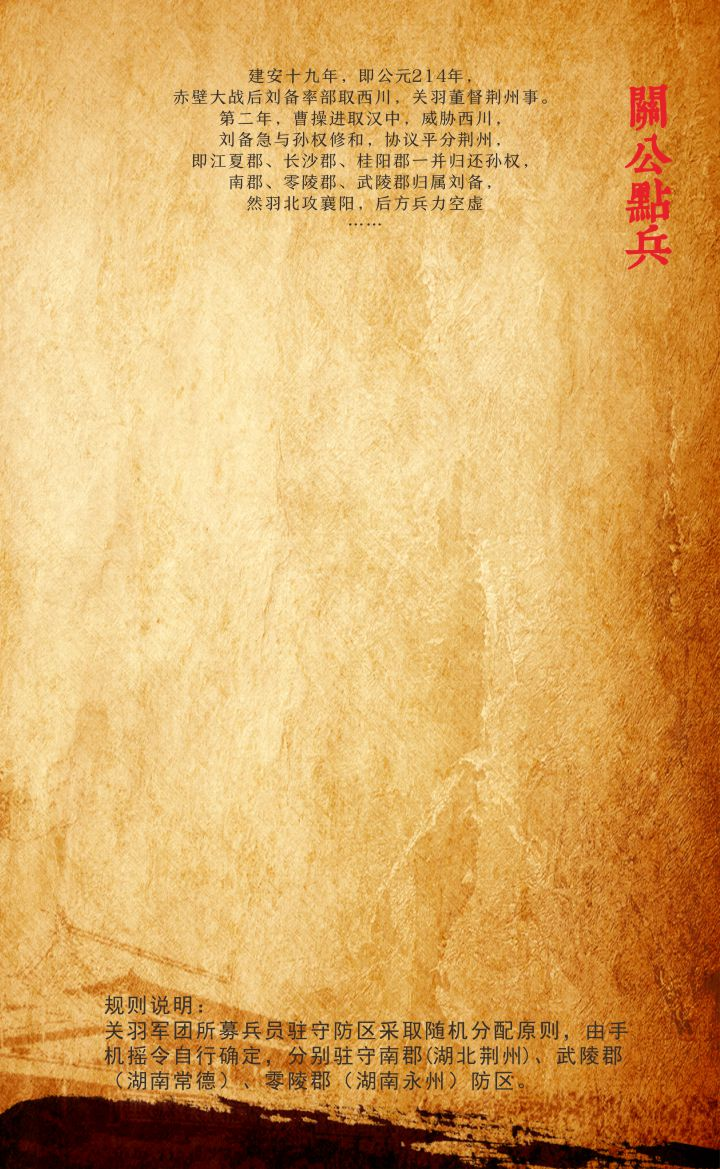
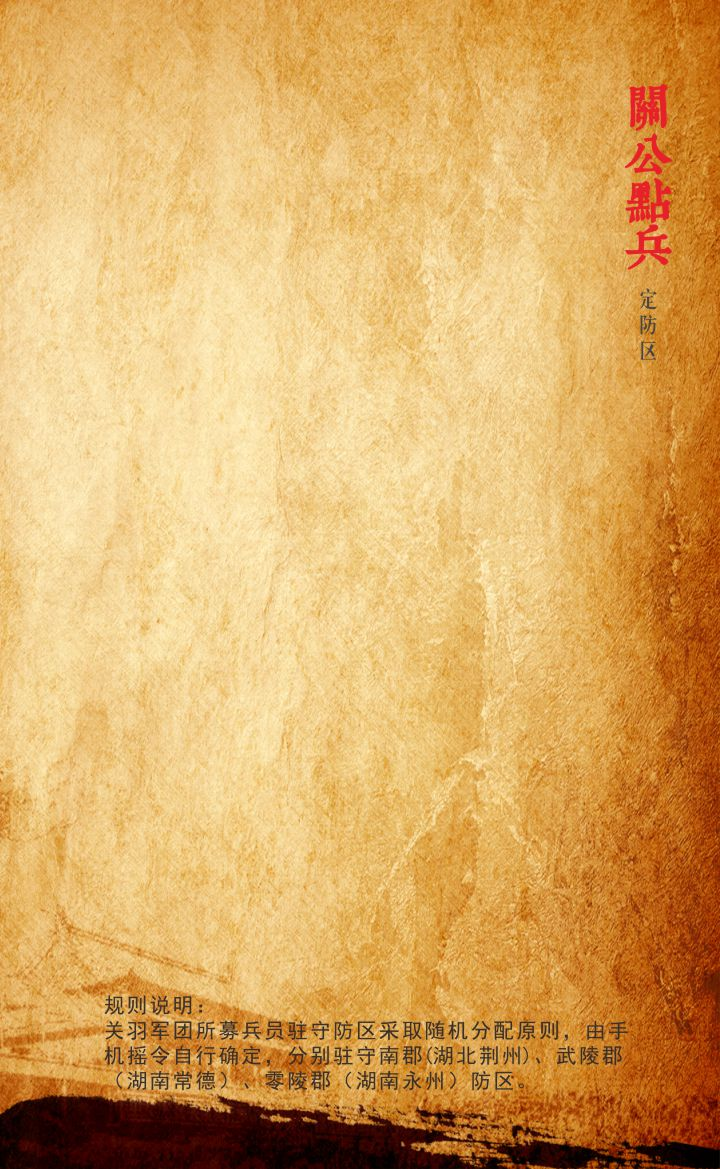
关公点兵

Changed region(s): [[0.2444, 0.0616, 0.7639, 0.1848], [0.8861, 0.2464, 0.9167, 0.308]]

diff --git a/public/apps/guangong/css/arm.css b/public/apps/guangong/css/arm.css
@@ -42,12 +42,15 @@
     #arm-2 .steps img{width:36px}
 }
 
+#arm-3.swiper-slide,#arm-5.swiper-slide,#arm-7.swiper-slide,#arm-9.swiper-slide,#arm-12.swiper-slide{background-image:url(../images/arm/bg-qinghuai.jpg)}
+
 #arm-4 .defence-text{width:214px;left:50%;top:10px;margin-left:-107px;}
 #arm-4 .map{width:256px;left:50%;top:90px;margin-left:-128px}
 #arm-4 .shake{width:80px;left:50%;bottom:105px;margin-left:-40px;}
 #arm-4 .next-link{bottom:130px;left:50%;margin-left:-57px}
-#arm-4 .go-to-sign{width:80px;left:50%;bottom:120px;margin-left:-40px}
+#arm-4 .go-to-sign{width:80px;left:50%;bottom:70px;margin-left:-40px}
 #arm-4 .go-to-sign a{color:#E5302D}
+#arm-4.swiper-slide{background-image:url(../images/arm/bg-guizeshuoming-fangqu.jpg)}
 #go-to-sign-dialog{background:url(../images/arm/caozhi-bg.png) no-repeat center center transparent;background-size:100% 100%;width:260px;height:200px;font-size:22px;text-align:center;line-height:1.6;padding-top:56px}
 #go-to-sign-dialog .fancybox-close-small{top:17px;right:17px}
 @media screen and (max-width:350px){
@@ -68,6 +71,7 @@
 #arm-6 .qibing-text{top:165px;left:50%;margin-left:22%}
 #arm-6 .next-link{bottom:120px;left:50%;margin-left:-57px}
 #arm-6 .langan{width:80%;top:50%;left:50%;margin-left:-40%;margin-top:-10px}
+#arm-6.swiper-slide{background-image:url(../images/arm/bg-bingzhong.jpg)}
 #arm-dialog .dialog-content{background:url(../images/arm/caozhi-bg.png) no-repeat center center transparent;background-size:100% 100%}
 #arm-dialog h1{font-size:16px;margin-bottom:26px;text-align:center}
 #arm-dialog .arm-description img{width:100%}
@@ -79,6 +83,7 @@
 #arm-8 .result{width:72px;height:400px;top:50%;left:50%;margin-left:-36px;margin-top:-250px;box-sizing:content-box;background-image:url(../images/arm/paizi.png);color:#000;background-size:100%;background-repeat:no-repeat}
 #arm-8 .result .hour{display:inline-block;width:18px;line-height:1.5;top:120px;left:27px;position:absolute}
 #arm-8 .next-link{bottom:100px;left:50%;margin-left:-57px}
+#arm-8.swiper-slide{background-image:url(../images/arm/bg-guizeshuoming-qinwu.jpg)}
 #hour-dialog .dialog-content{background:url(../images/arm/caozhi-bg.png) no-repeat center center transparent;background-size:100% 100%}
 #hour-dialog .bottom-description{margin-top:30px;text-align:center}
 @media screen and (max-width:350px){
@@ -102,6 +107,7 @@
 #arm-10 .juanzhou-kai #info-avatar{text-align:center;margin-bottom:20px}
 #arm-10 .juanzhou-kai #info-avatar img{width:70px;height:70px}
 #arm-10 .juanzhou-kai a.all-rank-link{color:blue}
+#arm-10.swiper-slide{background-image:url(../images/arm/bg-guizeshuoming-junji.jpg)}
 
 #arm-11 .desc{left:50%;margin-left:-121px;font-size:12px;bottom:54px}
 
@@ -112,6 +118,7 @@
 #arm-13 .description{width:90%;margin-left:-45%}
 #arm-13 .description p{text-indent:2em;color:#3E3938;font-size:12px}
 #arm-13 .description p a{color:#E50012}
+#arm-13.swiper-slide{background-image:url(../images/arm/bg-lvjunzhi.jpg)}
 @media screen and (max-width:350px){
     #arm-13 .job-title{top:26px;width:212px;margin-left:-131px}
     #arm-13 .jobs{top:84px}

diff --git a/public/apps/guangong/js/common.js b/public/apps/guangong/js/common.js
@@ -164,19 +164,11 @@ var common = {
         
         //一些结果页
         if($swiper.find('.result').length){
-            $swiper.find('.result').show().addClass('flip animated');
+            $swiper.find('.result').show().addClass('fadeInRight animated');
         }else{
-            $('.result').hide().removeClass('flip animated');
+            $('.result').hide().removeClass('fadeInRight animated');
         }
         
-        //底部描述
-        if($swiper.find('.description,.explain').length){
-            $swiper.find('.description,.explain').removeClass('lightSpeedIn animated');
-            setTimeout(function(){
-                $swiper.find('.description,.explain').addClass('lightSpeedIn animated');
-            }, 10);
-        }
-
         //右上角小标题
         if($swiper.find('.brand').length){
             $swiper.find('.brand').removeClass('fadeInRight animated');

diff --git a/public/apps/guangong/js/arm.js b/public/apps/guangong/js/arm.js
@@ -22,13 +22,6 @@ var arm = {
             $('.job-title').hide().removeClass('rubberBand animated');
         }
 
-        //兵种说明顶部文字
-        if($swiper.find('.arm-text').length){
-            $swiper.find('.arm-text').show().addClass('fadeInDown animated');
-        }else{
-            $('.arm-text').hide().removeClass('fadeInDown animated');
-        }
-
         //防区说明顶部文字
         if($swiper.find('.defence-text').length){
             $swiper.find('.defence-text').show().addClass('fadeInDown animated');

diff --git a/apps/guangong/modules/frontend/views/arm/_defence_slides.php b/apps/guangong/modules/frontend/views/arm/_defence_slides.php
@@ -5,17 +5,10 @@
  */
 ?>
 <div class="swiper-slide" id="arm-3">
-    <div class="layer brand"><img src="<?php echo $this->appAssets('images/arm/brand.png')?>"></div>
     <div class="layer dadao"><img src="<?php echo $this->appAssets('images/arm/dadao.png')?>"></div>
     <div class="layer title"><img src="<?php echo $this->appAssets('images/arm/t1.png')?>"></div>
-    <div class="layer description">
-        <p class="center">有价值有深度的关公文化网络体验之旅</p>
-        <p class="center">为实战体验做战争准备</p>
-    </div>
 </div>
 <div class="swiper-slide <?php if(!$defence){echo 'set-defence-slide stop-to-next';}?>" id="arm-4">
-    <div class="layer brand"><img src="<?php echo $this->appAssets('images/arm/brand.png')?>"></div>
-    <div class="layer subtitle">定防区</div>
     <div class="layer defence-text"><img src="<?php echo $this->appAssets('images/arm/defence-text.png')?>"></div>
     <div class="layer map"><img src="<?php echo $this->appAssets('images/arm/map.png')?>"></div>
     <?php if($user_extra && $user_extra['military'] >= \cms\services\OptionService::get('guangong:junfei', 1100)){?>
@@ -25,8 +18,4 @@
     <?php }else{?>
         <div class="layer shake go-to-sign"><img src="<?php echo $this->appAssets('images/arm/shake.png')?>"></div>
     <?php }?>
-    <div class="layer description">
-        <p>体验说明：</p>
-        <p>关羽军团所募兵员驻守防区采取随机分配的原则，由手机摇一摇自行确定，分别驻守南郡（湖北荆州）、武陵郡（湖南常德）、零陵郡（湖南永州）防区</p>
-    </div>
 </div>

diff --git a/apps/guangong/modules/frontend/views/arm/_arm_slides.php b/apps/guangong/modules/frontend/views/arm/_arm_slides.php
@@ -4,18 +4,10 @@
  */
 ?>
 <div class="swiper-slide" id="arm-5">
-    <div class="layer brand"><img src="<?php echo $this->appAssets('images/arm/brand.png')?>"></div>
     <div class="layer dadao"><img src="<?php echo $this->appAssets('images/arm/dadao.png')?>"></div>
     <div class="layer title"><img src="<?php echo $this->appAssets('images/arm/t2.png')?>"></div>
-    <div class="layer description">
-        <p class="center">有价值有深度的关公文化网络体验之旅</p>
-        <p class="center">为实战体验做战争准备</p>
-    </div>
 </div>
 <div class="swiper-slide <?php if(!$arm){echo 'set-arm-slide stop-to-next';}?>" id="arm-6">
-    <div class="layer brand"><img src="<?php echo $this->appAssets('images/arm/brand.png')?>"></div>
-    <div class="layer subtitle">选兵种</div>
-    <div class="layer mountain"><img src="<?php echo $this->appAssets('images/arm/mountain.png')?>"></div>
     <?php if($arm){?>
         <a class="layer result fancybox-inline" href="#arm-dialog"><img src="<?php echo $arm['picture']['url']?>"></a>
     <?php }else{?>
@@ -31,8 +23,4 @@
         </div>
     <?php }?>
     <div class="layer arm-text"><img src="<?php echo $this->appAssets('images/arm/arm-text.png')?>"></div>
-    <div class="layer description">
-        <p>规则说明：</p>
-        <p>关羽军团所募兵员兵种分配采取随机分配原则，由手机摇一摇自行确定，一经确定不可更改，兵种分别为步兵、骑兵、水军、弩兵、车兵。</p>
-    </div>
 </div>

diff --git a/apps/guangong/modules/frontend/views/arm/_job_slides.php b/apps/guangong/modules/frontend/views/arm/_job_slides.php
@@ -1,16 +1,8 @@
 <div class="swiper-slide" id="arm-12">
-    <div class="layer brand"><img src="<?php echo $this->appAssets('images/arm/brand.png')?>"></div>
     <div class="layer dadao"><img src="<?php echo $this->appAssets('images/arm/dadao.png')?>"></div>
     <div class="layer title"><img src="<?php echo $this->appAssets('images/arm/t5.png')?>"></div>
-    <div class="layer description">
-        <p class="center">有价值有深度的关公文化网络体验之旅</p>
-        <p class="center">为实战体验做战争准备</p>
-    </div>
 </div>
 <div class="swiper-slide jobs-slide" id="arm-13">
-    <div class="layer brand"><img src="<?php echo $this->appAssets('images/arm/brand.png')?>"></div>
-    <div class="layer subtitle">履军职</div>
-    <div class="layer job-title"><img src="<?php echo $this->appAssets('images/arm/junzhi-title.png')?>"></div>
     <div class="layer jobs">
         <ul>
             <li class="job-1">
@@ -135,13 +127,6 @@ wx.ready(function(){
 });
 
 $('#post-dialog').css({'width': document.documentElement.clientWidth * 0.7});
-$('#yunchangjian-dialog').css({
-    'width': document.documentElement.clientWidth * 0.75,
-    'height': document.documentElement.clientHeight * 0.8
-});
-$('#jiangjunxian-dialog').css({
-    'width': document.documentElement.clientWidth * 0.75
-});
 
 $(function(){
     var audio = new Audio("<?php echo $this->appAssets('music/gusheng2.mp3')?>");

diff --git a/apps/guangong/modules/frontend/views/arm/_hour_slides.php b/apps/guangong/modules/frontend/views/arm/_hour_slides.php
@@ -4,24 +4,13 @@
  */
 ?>
 <div class="swiper-slide" id="arm-7">
-    <div class="layer brand"><img src="<?php echo $this->appAssets('images/arm/brand.png')?>"></div>
     <div class="layer dadao"><img src="<?php echo $this->appAssets('images/arm/dadao.png')?>"></div>
     <div class="layer title"><img src="<?php echo $this->appAssets('images/arm/t3.png')?>"></div>
-    <div class="layer description">
-        <p class="center">有价值有深度的关公文化网络体验之旅</p>
-        <p class="center">为实战体验做战争准备</p>
-    </div>
 </div>
 <div class="swiper-slide <?php if(!$hour){echo 'set-hour-slide stop-to-next';}?>" id="arm-8">
-    <div class="layer brand"><img src="<?php echo $this->appAssets('images/arm/brand.png')?>"></div>
-    <div class="layer subtitle">排勤务</div>
     <?php if($hour){?>
         <a class="layer result fancybox-inline" href="#hour-dialog"><span class="hour"><?php echo $hour['name']?></span></a>
     <?php }else{?>
         <div class="layer qiantong shake"><img src="<?php echo $this->appAssets('images/arm/qiantong.png')?>"></div>
     <?php }?>
-    <div class="layer description">
-        <p>规则说明：</p>
-        <p>根据古历每天分为十二个时辰，手机摇一摇自行确定时间。按规则每天报到，具体上岗时间可自行随时掌握，按规坚持方可有效晋升军职。</p>
-    </div>
 </div>

diff --git a/apps/guangong/modules/frontend/views/arm/_info_slides.php b/apps/guangong/modules/frontend/views/arm/_info_slides.php
@@ -1,15 +1,8 @@
 <div class="swiper-slide" id="arm-9">
-    <div class="layer brand"><img src="<?php echo $this->appAssets('images/arm/brand.png')?>"></div>
     <div class="layer dadao"><img src="<?php echo $this->appAssets('images/arm/dadao.png')?>"></div>
     <div class="layer title"><img src="<?php echo $this->appAssets('images/arm/t4.png')?>"></div>
-    <div class="layer description">
-        <p class="center">有价值有深度的关公文化网络体验之旅</p>
-        <p class="center">为实战体验做战争准备</p>
-    </div>
 </div>
 <div class="swiper-slide show-info" id="arm-10">
-    <div class="layer brand"><img src="<?php echo $this->appAssets('images/arm/brand.png')?>"></div>
-    <div class="layer subtitle">录军籍</div>
     <div class="layer juanzhou-he"><img src="<?php echo $this->appAssets('images/arm/juanzhou-he.png')?>"></div>
     <div class="layer juanzhou-kai">
         <fieldset id="info-avatar">
@@ -54,8 +47,4 @@
         </fieldset>
     </div>
     <div class="layer shake"><img src="<?php echo $this->appAssets('images/arm/shake.png')?>"></div>
-    <div class="layer description">
-        <p>规则说明：</p>
-        <p>个人身份信息、防区、兵种确定后，即时输入网络军籍档案系统、信息不可更改。微官网可随时查询网络军籍档案。</p>
-    </div>
 </div>
